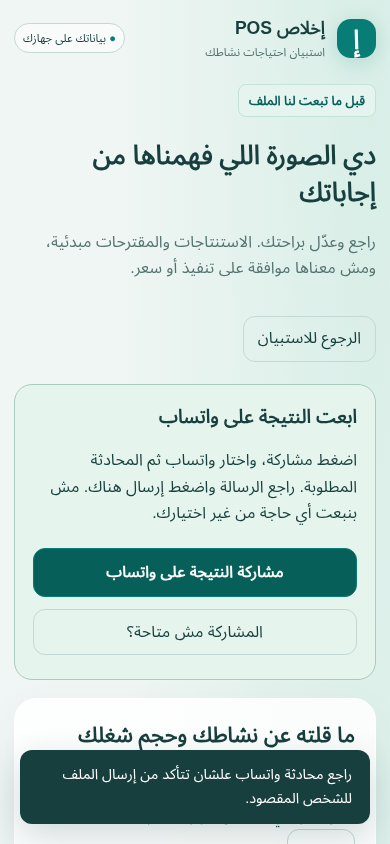
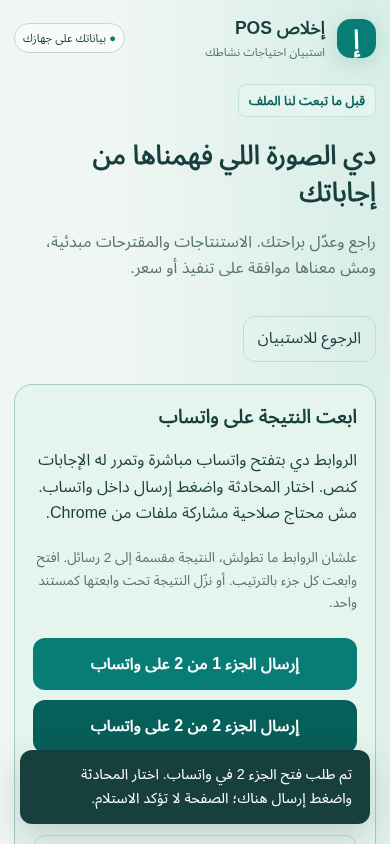
Open WhatsApp directly from local survey without Web Share dependency

diff --git a/client_discovery/dist/ALIkhlas-Survey.html b/client_discovery/dist/ALIkhlas-Survey.html
@@ -11,6 +11,7 @@
 
 h1[tabindex="-1"]:focus{outline:none}
 .share-box>button{margin:6px 0 6px 8px}.share-fallback{margin-top:18px;padding-top:16px;border-top:1px solid #a8cbbf}.share-fallback button{margin:6px 0}.share-copy{margin-top:12px;direction:rtl;min-height:180px}.export-options>summary{font-weight:bold}.export-options[open]>summary{margin-bottom:16px}@media(max-width:500px){.share-box>button,.share-fallback>button{width:100%;margin-inline:0}.share-box{padding:18px}.share-box h2{font-size:1.2rem}}
+.whatsapp-links{display:grid;gap:10px;margin-block:16px}.whatsapp-link{display:block;padding:13px 18px;background:var(--teal);border-radius:12px;color:white;text-align:center;text-decoration:none;min-height:48px;font-weight:bold}.whatsapp-link:hover{background:var(--teal-dark)}
 </style>
 </head>
 <body>
@@ -224,11 +225,24 @@ h1[tabindex="-1"]:focus{outline:none}
     if (catalog && new Set(catalog.capabilities.map(c => c.id)).size !== catalog.capabilities.length) errors.push('معرّفات قدرات مكررة');
     return errors;
   }
+  // Check accidental mixing or missing WhatsApp parts; this is not authentication.
+  function messageGroup(text) {
+    let hash=2166136261;
+    for(let i=0;i<text.length;i++)hash=Math.imul(hash^text.charCodeAt(i),16777619);
+    return text.length.toString(16)+'-'+(hash>>>0).toString(16);
+  }
   function validateEnvelope(input, config, catalog) {
     const errors = [], warnings = [];
     let raw;
     try {
       let source=input;
+      if(typeof source==='string' && !source.trimStart().startsWith('{') && !source.includes('\nALIKHLAS_ANSWERS_JSON\n') && source.includes('[[ALIKHLAS:')) {
+        const parts=[...source.replace(/\r\n/g,'\n').matchAll(/\[\[ALIKHLAS:([0-9a-f-]+):(\d+):(\d+)\]\]\n([\s\S]*?)\n\[\[END_ALIKHLAS\]\]/g)];
+        const total=Number(parts[0]?.[3]),group=parts[0]?.[1];
+        if(!total || parts.length!==total || new Set(parts.map(p=>Number(p[2]))).size!==total || parts.some(p=>p[1]!==group || Number(p[3])!==total || Number(p[2])<1 || Number(p[2])>total))throw Error('Missing or mixed WhatsApp parts');
+        source=parts.sort((a,b)=>Number(a[2])-Number(b[2])).map(p=>p[4]).join('');
+        if(messageGroup(source)!==group)throw Error('Changed WhatsApp parts');
+      }
       if(typeof source==='string' && source.startsWith('استبيان احتياجات إخلاص POS')) {
         const marker='\nALIKHLAS_ANSWERS_JSON\n',end='\nEND_ALIKHLAS_ANSWERS_JSON';
         const start=source.lastIndexOf(marker);if(start<0||!source.trimEnd().endsWith(end))throw Error('Incomplete shared answer text');
@@ -435,8 +449,25 @@ h1[tabindex="-1"]:focus{outline:none}
     lines.push('نسخة الإجابات الكاملة للاستكمال والتحليل؛ تشمل أي إجابات محفوظة من مسارات سابقة.','ALIKHLAS_ANSWERS_JSON',JSON.stringify(report.inputPreserved,null,2),'END_ALIKHLAS_ANSWERS_JSON');
     return lines.join('\n');
   }
+  function whatsappParts(envelope,config,catalog) {
+    const checked=validateEnvelope(envelope,config,catalog);
+    if(!checked.ok)throw Error(checked.errors.join('\n'));
+    const payload=JSON.stringify(checked.value),chunks=[];
+    let chunk='',length=0;
+    // Bound the encoded link length, including Arabic and emoji, rather than truncating.
+    for(const char of payload){const cost=encodeURIComponent(char).length;if(length+cost>5000){chunks.push(chunk);chunk='';length=0;}chunk+=char;length+=cost;}
+    if(chunk)chunks.push(chunk);
+    if(chunks.length>30)throw Error('الإجابات طويلة جدًا للروابط. نزّل النتيجة وابعتهالنا كمستند أو انسخها.');
+    const group=messageGroup(payload),total=chunks.length;
+    return chunks.map((part,i)=>{
+      const text='استبيان احتياجات إخلاص POS — جزء '+(i+1)+' من '+total+'\nابعت كل الأجزاء علشان الإجابات توصل كاملة.\n[[ALIKHLAS:'+group+':'+(i+1)+':'+total+']]\n'+part+'\n[[END_ALIKHLAS]]';
+      const href='https://wa.me/?text='+encodeURIComponent(text);
+      if(href.length>6000)throw Error('تعذر تجهيز رابط قصير؛ استخدم تنزيل النتيجة.');
+      return {text,href,part:i+1,total};
+    });
+  }
   function planMarkdown(report) { const text = markdown(report); return '# خطة تطوير مقترحة — تحتاج اعتمادًا\n\n' + text.slice(text.indexOf('## ح. الخطة المقترحة للمراجعة فقط')); }
-  return { VERSION, PHASES, clone, present, baseMatch, expandQuestions, visibleQuestions, pages, progress, newEnvelope, validateConfig, validateEnvelope, optionLabel, needSeeds, contradictions, androidAnalysis, analyze, markdown, readableHtml, planMarkdown, answered, shareMessage };
+  return { VERSION, PHASES, clone, present, baseMatch, expandQuestions, visibleQuestions, pages, progress, newEnvelope, validateConfig, validateEnvelope, optionLabel, needSeeds, contradictions, androidAnalysis, analyze, markdown, readableHtml, planMarkdown, answered, shareMessage, whatsappParts };
 });
 </script>
 <script>(function () {
@@ -504,7 +535,19 @@ h1[tabindex="-1"]:focus{outline:none}
   }
   function sharingBox() {
     const box = el('section', 'download-box share-box');
-    box.append(el('h2', '', 'ابعت النتيجة على واتساب'), el('p', '', 'اضغط مشاركة، واختار واتساب ثم المحادثة المطلوبة. راجع الرسالة واضغط إرسال هناك. مش بنبعت أي حاجة من غير اختيارك.'));
+    box.append(el('h2', '', 'ابعت النتيجة على واتساب'), el('p', '', 'الروابط دي بتفتح واتساب مباشرة وتمرر له الإجابات كنص. اختار المحادثة واضغط إرسال داخل واتساب. مش محتاج صلاحية مشاركة ملفات من Chrome.'));
+    const links = el('div', 'whatsapp-links');
+    try {
+      const parts=E.whatsappParts(state,Q,C);
+      if(parts.length>1)links.append(el('p','help','علشان الروابط ما تطولش، النتيجة مقسمة إلى '+parts.length+' رسائل. افتح وابعت كل جزء بالترتيب. أو نزّل النتيجة تحت وابعتها كمستند واحد.'));
+      for(const part of parts){
+        const link=el('a','whatsapp-link',parts.length===1?'فتح واتساب بالنتيجة':'إرسال الجزء '+part.part+' من '+part.total+' على واتساب');
+        link.href=part.href;link.target='_blank';link.rel='noopener noreferrer';
+        link.addEventListener('click',()=>{save();notify('تم طلب فتح الجزء '+part.part+' في واتساب. اختار المحادثة واضغط إرسال هناك؛ الصفحة لا تؤكد الاستلام.');});
+        links.append(link);
+      }
+    }catch(error){links.append(el('p','help',error.message));}
+    box.append(links);
     const fallback = el('div', 'share-fallback'); fallback.hidden = true;
     fallback.append(el('p', '', 'لو مشاركة الملف مش متاحة: نزّل النتيجة، وافتح محادثتنا في واتساب، واضغط المشبك ← مستند ← اختار الملف من التنزيلات.'), button('تنزيل النتيجة لإرفاقها في واتساب', exportAnswers));
     const text = el('textarea', 'share-copy'); text.readOnly = true; text.hidden = true; text.setAttribute('aria-label', 'نص الإجابات كاملًا للنسخ إلى واتساب');
@@ -518,26 +561,27 @@ h1[tabindex="-1"]:focus{outline:none}
         notify('اتنسخت الإجابات كاملة. افتح محادثتنا في واتساب والصقها وراجعها قبل الإرسال.');
       } catch (_) {
         text.value = message; text.hidden = false; text.focus(); text.select();
+        try { if(document.execCommand('copy')) { text.hidden=true; notify('اتنسخت الإجابات كاملة. افتح محادثتنا في واتساب والصقها.'); return; } } catch (_) {}
         notify('اضغط مطولًا على النص، واختار تحديد الكل ثم نسخ، والصقه في واتساب.');
       }
     }, 'quiet');
     fallback.append(copy, text);
-    const share = button('مشاركة النتيجة على واتساب', async () => {
+    const share = button('مشاركة ملف النتيجة — لو المتصفح بيدعمها', async () => {
       save();
       const checked = E.validateEnvelope(state, Q, C);
       if (!checked.ok) { errors = checked.errors; render(false); return; }
       share.disabled = true;
       try {
         const file = new File([JSON.stringify(checked.value, null, 2)], 'alikhlas-answers-' + state.responseId + '.json', { type: 'application/json' });
-        if (!navigator.share || !navigator.canShare?.({ files: [file] })) { fallback.hidden = false; return; }
+        if (!navigator.share || !navigator.canShare?.({ files: [file] })) { fallback.hidden = false; notify('مشاركة الملفات مش متاحة هنا. استخدم روابط واتساب فوق أو نزّل النتيجة كمستند.'); return; }
         await navigator.share({ files: [file], title: 'احتياجات المحل من إخلاص POS', text: 'دي إجاباتي عن شغلي الحالي واللي متوقعه من التطبيق، وخصوصًا تسهيل الفواتير.' });
         notify('راجع محادثة واتساب علشان تتأكد من إرسال الملف للشخص المقصود.');
       } catch (error) {
         if (error.name === 'AbortError') notify('تم إلغاء المشاركة. إجاباتك لسه موجودة، وتقدر تبعتها وقت ما تحب.');
         else { fallback.hidden = false; notify('المتصفح ما قدرش يشارك الملف. استخدم التنزيل أو نسخ الإجابات.'); }
       } finally { share.disabled = false; }
-    }, 'primary');
-    box.append(share, button('المشاركة مش متاحة؟', () => { fallback.hidden = !fallback.hidden; }, 'quiet'), fallback);
+    }, 'quiet');
+    box.append(button('تنزيل النتيجة كملف واحد',exportAnswers), share, button('نسخ الإجابات أو مساعدة الإرسال', () => { fallback.hidden = !fallback.hidden; }, 'quiet'), fallback);
     return box;
   }
   async function importFile(file) {

diff --git a/client_discovery/app/client.js b/client_discovery/app/client.js
@@ -63,7 +63,19 @@
   }
   function sharingBox() {
     const box = el('section', 'download-box share-box');
-    box.append(el('h2', '', 'ابعت النتيجة على واتساب'), el('p', '', 'اضغط مشاركة، واختار واتساب ثم المحادثة المطلوبة. راجع الرسالة واضغط إرسال هناك. مش بنبعت أي حاجة من غير اختيارك.'));
+    box.append(el('h2', '', 'ابعت النتيجة على واتساب'), el('p', '', 'الروابط دي بتفتح واتساب مباشرة وتمرر له الإجابات كنص. اختار المحادثة واضغط إرسال داخل واتساب. مش محتاج صلاحية مشاركة ملفات من Chrome.'));
+    const links = el('div', 'whatsapp-links');
+    try {
+      const parts=E.whatsappParts(state,Q,C);
+      if(parts.length>1)links.append(el('p','help','علشان الروابط ما تطولش، النتيجة مقسمة إلى '+parts.length+' رسائل. افتح وابعت كل جزء بالترتيب. أو نزّل النتيجة تحت وابعتها كمستند واحد.'));
+      for(const part of parts){
+        const link=el('a','whatsapp-link',parts.length===1?'فتح واتساب بالنتيجة':'إرسال الجزء '+part.part+' من '+part.total+' على واتساب');
+        link.href=part.href;link.target='_blank';link.rel='noopener noreferrer';
+        link.addEventListener('click',()=>{save();notify('تم طلب فتح الجزء '+part.part+' في واتساب. اختار المحادثة واضغط إرسال هناك؛ الصفحة لا تؤكد الاستلام.');});
+        links.append(link);
+      }
+    }catch(error){links.append(el('p','help',error.message));}
+    box.append(links);
     const fallback = el('div', 'share-fallback'); fallback.hidden = true;
     fallback.append(el('p', '', 'لو مشاركة الملف مش متاحة: نزّل النتيجة، وافتح محادثتنا في واتساب، واضغط المشبك ← مستند ← اختار الملف من التنزيلات.'), button('تنزيل النتيجة لإرفاقها في واتساب', exportAnswers));
     const text = el('textarea', 'share-copy'); text.readOnly = true; text.hidden = true; text.setAttribute('aria-label', 'نص الإجابات كاملًا للنسخ إلى واتساب');
@@ -77,26 +89,27 @@
         notify('اتنسخت الإجابات كاملة. افتح محادثتنا في واتساب والصقها وراجعها قبل الإرسال.');
       } catch (_) {
         text.value = message; text.hidden = false; text.focus(); text.select();
+        try { if(document.execCommand('copy')) { text.hidden=true; notify('اتنسخت الإجابات كاملة. افتح محادثتنا في واتساب والصقها.'); return; } } catch (_) {}
         notify('اضغط مطولًا على النص، واختار تحديد الكل ثم نسخ، والصقه في واتساب.');
       }
     }, 'quiet');
     fallback.append(copy, text);
-    const share = button('مشاركة النتيجة على واتساب', async () => {
+    const share = button('مشاركة ملف النتيجة — لو المتصفح بيدعمها', async () => {
       save();
       const checked = E.validateEnvelope(state, Q, C);
       if (!checked.ok) { errors = checked.errors; render(false); return; }
       share.disabled = true;
       try {
         const file = new File([JSON.stringify(checked.value, null, 2)], 'alikhlas-answers-' + state.responseId + '.json', { type: 'application/json' });
-        if (!navigator.share || !navigator.canShare?.({ files: [file] })) { fallback.hidden = false; return; }
+        if (!navigator.share || !navigator.canShare?.({ files: [file] })) { fallback.hidden = false; notify('مشاركة الملفات مش متاحة هنا. استخدم روابط واتساب فوق أو نزّل النتيجة كمستند.'); return; }
         await navigator.share({ files: [file], title: 'احتياجات المحل من إخلاص POS', text: 'دي إجاباتي عن شغلي الحالي واللي متوقعه من التطبيق، وخصوصًا تسهيل الفواتير.' });
         notify('راجع محادثة واتساب علشان تتأكد من إرسال الملف للشخص المقصود.');
       } catch (error) {
         if (error.name === 'AbortError') notify('تم إلغاء المشاركة. إجاباتك لسه موجودة، وتقدر تبعتها وقت ما تحب.');
         else { fallback.hidden = false; notify('المتصفح ما قدرش يشارك الملف. استخدم التنزيل أو نسخ الإجابات.'); }
       } finally { share.disabled = false; }
-    }, 'primary');
-    box.append(share, button('المشاركة مش متاحة؟', () => { fallback.hidden = !fallback.hidden; }, 'quiet'), fallback);
+    }, 'quiet');
+    box.append(button('تنزيل النتيجة كملف واحد',exportAnswers), share, button('نسخ الإجابات أو مساعدة الإرسال', () => { fallback.hidden = !fallback.hidden; }, 'quiet'), fallback);
     return box;
   }
   async function importFile(file) {

diff --git a/client_discovery/lib/engine.js b/client_discovery/lib/engine.js
@@ -202,11 +202,24 @@
     if (catalog && new Set(catalog.capabilities.map(c => c.id)).size !== catalog.capabilities.length) errors.push('معرّفات قدرات مكررة');
     return errors;
   }
+  // Check accidental mixing or missing WhatsApp parts; this is not authentication.
+  function messageGroup(text) {
+    let hash=2166136261;
+    for(let i=0;i<text.length;i++)hash=Math.imul(hash^text.charCodeAt(i),16777619);
+    return text.length.toString(16)+'-'+(hash>>>0).toString(16);
+  }
   function validateEnvelope(input, config, catalog) {
     const errors = [], warnings = [];
     let raw;
     try {
       let source=input;
+      if(typeof source==='string' && !source.trimStart().startsWith('{') && !source.includes('\nALIKHLAS_ANSWERS_JSON\n') && source.includes('[[ALIKHLAS:')) {
+        const parts=[...source.replace(/\r\n/g,'\n').matchAll(/\[\[ALIKHLAS:([0-9a-f-]+):(\d+):(\d+)\]\]\n([\s\S]*?)\n\[\[END_ALIKHLAS\]\]/g)];
+        const total=Number(parts[0]?.[3]),group=parts[0]?.[1];
+        if(!total || parts.length!==total || new Set(parts.map(p=>Number(p[2]))).size!==total || parts.some(p=>p[1]!==group || Number(p[3])!==total || Number(p[2])<1 || Number(p[2])>total))throw Error('Missing or mixed WhatsApp parts');
+        source=parts.sort((a,b)=>Number(a[2])-Number(b[2])).map(p=>p[4]).join('');
+        if(messageGroup(source)!==group)throw Error('Changed WhatsApp parts');
+      }
       if(typeof source==='string' && source.startsWith('استبيان احتياجات إخلاص POS')) {
         const marker='\nALIKHLAS_ANSWERS_JSON\n',end='\nEND_ALIKHLAS_ANSWERS_JSON';
         const start=source.lastIndexOf(marker);if(start<0||!source.trimEnd().endsWith(end))throw Error('Incomplete shared answer text');
@@ -413,6 +426,23 @@
     lines.push('نسخة الإجابات الكاملة للاستكمال والتحليل؛ تشمل أي إجابات محفوظة من مسارات سابقة.','ALIKHLAS_ANSWERS_JSON',JSON.stringify(report.inputPreserved,null,2),'END_ALIKHLAS_ANSWERS_JSON');
     return lines.join('\n');
   }
+  function whatsappParts(envelope,config,catalog) {
+    const checked=validateEnvelope(envelope,config,catalog);
+    if(!checked.ok)throw Error(checked.errors.join('\n'));
+    const payload=JSON.stringify(checked.value),chunks=[];
+    let chunk='',length=0;
+    // Bound the encoded link length, including Arabic and emoji, rather than truncating.
+    for(const char of payload){const cost=encodeURIComponent(char).length;if(length+cost>5000){chunks.push(chunk);chunk='';length=0;}chunk+=char;length+=cost;}
+    if(chunk)chunks.push(chunk);
+    if(chunks.length>30)throw Error('الإجابات طويلة جدًا للروابط. نزّل النتيجة وابعتهالنا كمستند أو انسخها.');
+    const group=messageGroup(payload),total=chunks.length;
+    return chunks.map((part,i)=>{
+      const text='استبيان احتياجات إخلاص POS — جزء '+(i+1)+' من '+total+'\nابعت كل الأجزاء علشان الإجابات توصل كاملة.\n[[ALIKHLAS:'+group+':'+(i+1)+':'+total+']]\n'+part+'\n[[END_ALIKHLAS]]';
+      const href='https://wa.me/?text='+encodeURIComponent(text);
+      if(href.length>6000)throw Error('تعذر تجهيز رابط قصير؛ استخدم تنزيل النتيجة.');
+      return {text,href,part:i+1,total};
+    });
+  }
   function planMarkdown(report) { const text = markdown(report); return '# خطة تطوير مقترحة — تحتاج اعتمادًا\n\n' + text.slice(text.indexOf('## ح. الخطة المقترحة للمراجعة فقط')); }
-  return { VERSION, PHASES, clone, present, baseMatch, expandQuestions, visibleQuestions, pages, progress, newEnvelope, validateConfig, validateEnvelope, optionLabel, needSeeds, contradictions, androidAnalysis, analyze, markdown, readableHtml, planMarkdown, answered, shareMessage };
+  return { VERSION, PHASES, clone, present, baseMatch, expandQuestions, visibleQuestions, pages, progress, newEnvelope, validateConfig, validateEnvelope, optionLabel, needSeeds, contradictions, androidAnalysis, analyze, markdown, readableHtml, planMarkdown, answered, shareMessage, whatsappParts };
 });

diff --git a/client_discovery/app/styles.css b/client_discovery/app/styles.css
@@ -3,3 +3,4 @@
 
 h1[tabindex="-1"]:focus{outline:none}
 .share-box>button{margin:6px 0 6px 8px}.share-fallback{margin-top:18px;padding-top:16px;border-top:1px solid #a8cbbf}.share-fallback button{margin:6px 0}.share-copy{margin-top:12px;direction:rtl;min-height:180px}.export-options>summary{font-weight:bold}.export-options[open]>summary{margin-bottom:16px}@media(max-width:500px){.share-box>button,.share-fallback>button{width:100%;margin-inline:0}.share-box{padding:18px}.share-box h2{font-size:1.2rem}}
+.whatsapp-links{display:grid;gap:10px;margin-block:16px}.whatsapp-link{display:block;padding:13px 18px;background:var(--teal);border-radius:12px;color:white;text-align:center;text-decoration:none;min-height:48px;font-weight:bold}.whatsapp-link:hover{background:var(--teal-dark)}

diff --git a/client_discovery/tests/browser_test.py b/client_discovery/tests/browser_test.py
@@ -197,12 +197,12 @@ def main():
                 if share_mode=='cancel':action="throw new DOMException('cancel','AbortError')"
                 if share_mode=='failure':action="throw Error('share failure')"
                 js+="Object.defineProperty(navigator,'share',{configurable:true,value:async data=>{"+action+"}});"
-            if share_mode=='copy_manual':js+="Object.defineProperty(navigator,'clipboard',{configurable:true,value:undefined});"
+            if share_mode=='copy_manual':js+="Object.defineProperty(navigator,'clipboard',{configurable:true,value:undefined});document.execCommand=()=>false;"
             c.add_init_script(js)
             p=c.new_page();p.goto(url)
             p.locator('input[type=file]').first.set_input_files(str(ROOT/'examples/small-shop.answers.json'))
             p.get_by_role('button',name='استكمال إجاباتك',exact=True).click()
-            p.get_by_role('button',name='مشاركة النتيجة على واتساب',exact=True).click()
+            p.get_by_role('button',name='مشاركة ملف النتيجة — لو المتصفح بيدعمها',exact=True).click()
             if share_mode=='native':
                 p.wait_for_function('window.__shared!==null')
                 payload=p.evaluate('window.__shared')
@@ -223,6 +223,25 @@ def main():
                     valid=p.evaluate('(text)=>Discovery.validateEnvelope(text,JSON.parse(document.getElementById("questionnaire-data").textContent),JSON.parse(document.getElementById("capability-data").textContent)).ok',copied)
                     ok(share_mode+' full WhatsApp text can be imported again',valid)
             c.close()
+        c=context_for(offline=True,viewport={'width':390,'height':844},is_mobile=True,has_touch=True)
+        c.add_init_script("Object.defineProperty(navigator,'share',{value:undefined});Object.defineProperty(navigator,'canShare',{value:undefined});")
+        c.route('https://wa.me/**',lambda route:route.fulfill(status=200,content_type='text/html',body='<p>Intercepted WhatsApp link for testing only</p>'))
+        p=c.new_page();p.goto(url)
+        p.locator('input[type=file]').first.set_input_files(str(ROOT/'examples/small-shop.answers.json'))
+        p.get_by_role('button',name='استكمال إجاباتك',exact=True).click()
+        links=p.locator('.whatsapp-link');texts=[]
+        from urllib.parse import urlparse,parse_qs
+        for i in range(links.count()):
+            href=links.nth(i).get_attribute('href')
+            with p.expect_popup() as popup: links.nth(i).click()
+            tab=popup.value;tab.wait_for_load_state()
+            ok('direct WhatsApp part '+str(i+1)+' opens without Web Share',tab.url==href and len(href)<=6000)
+            texts.append(parse_qs(urlparse(href).query)['text'][0]);tab.close()
+        restored=p.evaluate('(text)=>Discovery.validateEnvelope(text,JSON.parse(document.getElementById("questionnaire-data").textContent),JSON.parse(document.getElementById("capability-data").textContent))','\n\n'.join(texts))
+        ok('all direct WhatsApp parts reconstruct complete original answers',restored['ok'] and restored['value']['answers']==stored(p)['answers'])
+        ok('direct sharing does not claim WhatsApp delivery','لا تؤكد الاستلام' in p.locator('#notice').inner_text())
+        p.evaluate('window.scrollTo(0,0)');p.screenshot(path=str(OUT/'phone-direct-whatsapp.png'),full_page=False)
+        c.close()
         browser.close()
     (OUT/'browser-results.json').write_text(json.dumps({'checks':checks,'passed':len(checks),'browser':'Chromium, Linux; offline routed standalone document at permitted localhost; 360/390/1280 widths','limitation':'Managed Chromium blocks file:// by policy; raw file protocol not verified in this environment.'},ensure_ascii=False,indent=2))
     print('TOTAL',len(checks),'checks passed')

diff --git a/client_discovery/docs/TEST_RESULTS.md b/client_discovery/docs/TEST_RESULTS.md
@@ -4,6 +4,10 @@
 
 التسليم HTML فقط. صيغت الأسئلة لعميل لم يستلم التطبيق، مع مسار فواتير قصير وتفاصيل اختيارية. اختُبرت مشاركة الملفات بمحاكاة Web Share API: تمرير ملف الإجابات كاملًا، غياب الدعم، الإلغاء، فشل المشاركة، والتنزيل والنسخ اليدوي والتلقائي وإعادة استيراد النص. لم تُرسل رسائل لأي شخص، ولم تُختبر عملية الإرسال داخل تطبيق واتساب على هاتف فعلي. مراجعة اللقطة بعرض390px أكدت ظهور زر المشاركة بوضوح.
 
+## تصحيح زر واتساب
+
+الفتح الأساسي أصبح روابط `wa.me/?text=` مباشرة، مع حد لطول الرابط وتقسيم النتيجة دون حذف إجابات. اختُبرت الروابط مع تعطيل Web Share تمامًا، وفتح تبويبات الوجهة واعتراضها محليًا دون الاتصال بواتساب، ثم إعادة تجميع كل الأجزاء والتحقق من تطابق الإجابات الأصلية. تُرفض الأجزاء الناقصة أو المختلطة أو المكررة. مشاركة ملف من المتصفح خيار إضافي فقط. هذا تحقق من التنقل والبيانات، وليس تجربة إرسال داخل تطبيق واتساب على هاتف فعلي.
+
 ## النطاق والنسخة
 
 الأداة فقط داخل `client_discovery/`، مقابل مرجع POS `000036742830d7dc37b684ff4c2a9a412c914150`. لم نعدّل ملفات التطبيق الإنتاجية أو نفتح قاعدة بيانات عميل. ملفات السيناريوهات اصطناعية ومعلّمة `synthetic: true`. لم ننفذ الميزات أو الإصلاحات التي يقترحها التقرير.
@@ -12,12 +16,12 @@
 
 | المجموعة | النتيجة | ماذا تثبت؟ |
 |---|---|---|
-| `node tests/engine.test.cjs` | 39 اختبارًا ناجحًا | الشروط، عدم تفسير المخفي، التعارضات، البدائل الخمسة، الصلاحيات، الأولويات، معايير قبول مخصصة، عدم اختلاق حقائق، الحفظ الكامل، الإصدارات، رفض غير الصحيح، XSS، وأداة التحليل |
+| `node tests/engine.test.cjs` | 42 اختبارًا ناجحًا | الشروط، عدم تفسير المخفي، التعارضات، البدائل الخمسة، الصلاحيات، الأولويات، معايير قبول مخصصة، عدم اختلاق حقائق، الحفظ الكامل، الإصدارات، رفض غير الصحيح، XSS، وأداة التحليل |
 | `python tests/schema_test.py` | 13 حالة ناجحة | صحة مخططي Draft2020-12 نفسيهما، تعريف الاستبيان، أمثلة الإجابات، رفض enum/major غير صحيح، وحفظ الإضافات |
-| `python tests/browser_test.py` | 71 فحصًا ناجحًا | إكمال المسارات الثلاثة بالإدخال الفعلي، الرجوع والتحديث والاستكمال، JSON/HTML والتنزيل والاستيراد وإلغاؤه، RTL، غياب أخطاء JS والطلبات الخارجية، تعطل التخزين والمسح، وعدم التجاوز الأفقي |
+| `python tests/browser_test.py` | 75 فحصًا ناجحًا | إكمال المسارات الثلاثة بالإدخال الفعلي، الرجوع والتحديث والاستكمال، JSON/HTML والتنزيل والاستيراد وإلغاؤه، RTL، غياب أخطاء JS والطلبات الخارجية، تعطل التخزين والمسح، وعدم التجاوز الأفقي |
 | `node tools/build.mjs --check` | ناجح | HTML والوثائق المولدة تطابق المصادر الحالية، ومعرفات وشروط الأسئلة سليمة، ومسارات أدلة الكود موجودة |
 
-جميع الأوامر أعلاه تُشغّل من `client_discovery/`. تشغيل Node مباشر مقصود هنا؛ مشغل `node --test` في البيئة عرض ملخص ملف واحد بدل تعداد الاختبارات الفرعية، لذلك سُجل العدد من المشغل المباشر الذي أظهر الـ39 نتيجة.
+جميع الأوامر أعلاه تُشغّل من `client_discovery/`. تشغيل Node مباشر مقصود هنا؛ مشغل `node --test` في البيئة عرض ملخص ملف واحد بدل تعداد الاختبارات الفرعية، لذلك سُجل العدد من المشغل المباشر الذي أظهر الـ42 نتيجة.
 
 ## تفاصيل المتصفح والمشاهدة البصرية
 

diff --git a/client_discovery/docs/CLIENT_GUIDE_AR.md b/client_discovery/docs/CLIENT_GUIDE_AR.md
@@ -3,7 +3,7 @@
 1. افتح **ALIkhlas-Survey.html** في متصفح الموبايل، خارج معاينة المرفق في واتساب. مش محتاج تثبيت أو حساب. لو الهاتف منع تشغيل HTML، جرّب «فتح باستخدام» المتصفح؛ بعض عارضي الملفات لا يشغّلون الاستبيان.
 2. جاوب عن شغلك الحالي: بتكتب الفواتير إزاي، إيه اللي بياخد وقت، ومتوقع التطبيق يسهّله إزاي. مش مطلوب تكون استخدمت التطبيق. اختار «خلّينا في الفواتير دلوقتي» لو مش محتاج تفاصيل تانية.
 3. تقدر ترجع وتعدل أو تؤجل سؤال. الإجابات بتتحفظ في المتصفح لو بيسمح؛ نزّل نسخة لو هتقفل الصفحة أو تغيّر الجهاز.
-4. في الملخص اضغط **«مشاركة النتيجة على واتساب»**، واختار واتساب ثم محادثتنا. راجع واضغط إرسال داخل واتساب.
-5. لو المشاركة غير مدعومة، اضغط **«تنزيل النتيجة لإرفاقها في واتساب»**، وافتح محادثتنا ← المشبك ← مستند ← الملف من التنزيلات. أو اختار **«نسخ الإجابات لإرسالها كنص»** والصقها في المحادثة. لو النسخ التلقائي مش متاح، النص يظهر لتحديده ونسخه يدويًا.
+4. في الملخص اضغط **رابط واتساب**. لو النتيجة مقسمة لأجزاء، افتح كل جزء واختر نفس المحادثة واضغط إرسال. ابعت كل الأجزاء من نفس النسخة، من غير إعادة تحميل الصفحة في النص. الروابط لا تحتاج خاصية مشاركة الملفات من Chrome، لكنها تحتاج إنترنت وواتساب.
+5. لو تفضل ملفًا واحدًا، اضغط **«تنزيل النتيجة كملف واحد»**، وافتح محادثتنا ← المشبك ← مستند ← الملف من التنزيلات. أو اختار **«نسخ الإجابات لإرسالها كنص»** والصقها في المحادثة. لو النسخ التلقائي مش متاح، النص يظهر لتحديده ونسخه يدويًا.
 
 لا يتم إرسال شيء تلقائيًا، ولا نقدر نؤكد استلام الرسالة من الصفحة. ما تكتبش كلمات مرور أو بيانات عملاء حقيقيين. الإجابات المحفوظة على الجهاز مش مشفّرة.

diff --git a/client_discovery/README_AR.md b/client_discovery/README_AR.md
@@ -4,7 +4,7 @@
 
 ## النسخة الحالية قبل التسليم
 
-العميل لم يستلم التطبيق. المسار الأساسي لفهم شغله الحالي ومجهود كتابة الفواتير وما يتوقعه من التطبيق. التفاصيل الإضافية تظهر باختياره. أرسل **HTML فقط**؛ لا يحتاج العميل الحزمة أو أدوات التحليل. في الملخص يضغط «مشاركة النتيجة على واتساب» ثم يختار واتساب والمحادثة. عند غياب مشاركة الملفات يتاح تنزيل النتيجة وإرفاقها كمستند، أو نسخ الإجابات كاملة. المشاركة تستلزم اختيار العميل والإرسال داخل واتساب؛ لا تأكيد آلي للتسليم. بقيت الأدوات والقوالب السابقة للمراجعة الداخلية.
+العميل لم يستلم التطبيق. المسار الأساسي لفهم شغله الحالي ومجهود كتابة الفواتير وما يتوقعه من التطبيق. التفاصيل الإضافية تظهر باختياره. أرسل **HTML فقط**؛ لا يحتاج العميل الحزمة أو أدوات التحليل. في الملخص يضغط روابط واتساب المباشرة، ويرسل كل الأجزاء المرقمة إلى نفس المحادثة. لا تعتمد هذه الروابط على Web Share أو صلاحيات مشاركة الملفات. يمكن بدلًا منها تنزيل النتيجة كملف واحد وإرفاقها كمستند، أو نسخ الإجابات كاملة. مشاركة ملف عبر المتصفح خيار إضافي فقط. المشاركة تستلزم اختيار العميل والإرسال داخل واتساب؛ لا تأكيد آلي للتسليم. بقيت الأدوات والقوالب السابقة للمراجعة الداخلية.
 
 ## إرسال الاستبيان للعميل
 

diff --git a/client_discovery/docs/QUESTIONNAIRE_DESIGN.md b/client_discovery/docs/QUESTIONNAIRE_DESIGN.md
@@ -1,6 +1,6 @@
 # التصميم وقواعد اتخاذ القرار
 
-تحديث الأسئلة 1.1.0: العميل قبل استلام التطبيق، والأولوية لكتابة الفواتير اليدوية وتوقعاته. أُزيل سؤال تقييم إخلاص POS، وخيار استخدامه الحالي مخفي للملفات القديمة فقط. المسار البسيط 27 سؤالًا، والمخزون والحسابات والفريق والهاتف والتوسع تفاصيل يختارها العميل. الصيغة بقيت1.0.0، والإجابات القديمة لا تُحذف. زر المشاركة يطلب قائمة مشاركة الهاتف للملف، مع تنزيل/نسخ يدوي عند عدم الدعم؛ لا إرسال أو تأكيد استلام آلي. التفاصيل التالية تحفظ توثيق الأدوات الداخلية والمسارات الموسعة.
+تحديث الأسئلة 1.1.0: العميل قبل استلام التطبيق، والأولوية لكتابة الفواتير اليدوية وتوقعاته. أُزيل سؤال تقييم إخلاص POS، وخيار استخدامه الحالي مخفي للملفات القديمة فقط. المسار البسيط 27 سؤالًا، والمخزون والحسابات والفريق والهاتف والتوسع تفاصيل يختارها العميل. الصيغة بقيت1.0.0، والإجابات القديمة لا تُحذف. زر الإرسال يستخدم روابط واتساب مباشرة للنص المقسم، مع تنزيل/نسخ يدوي وخيار مشاركة ملف إضافي؛ لا إرسال أو تأكيد استلام آلي. التفاصيل التالية تحفظ توثيق الأدوات الداخلية والمسارات الموسعة.
 
 ## نطاق الدراسة
 
